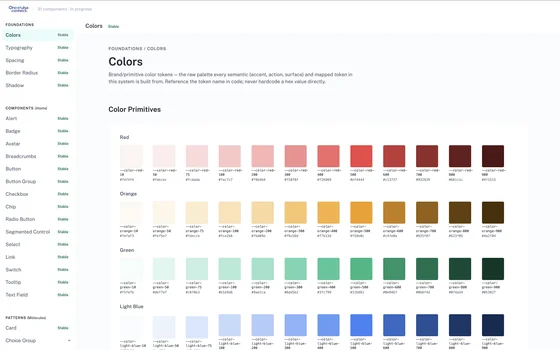
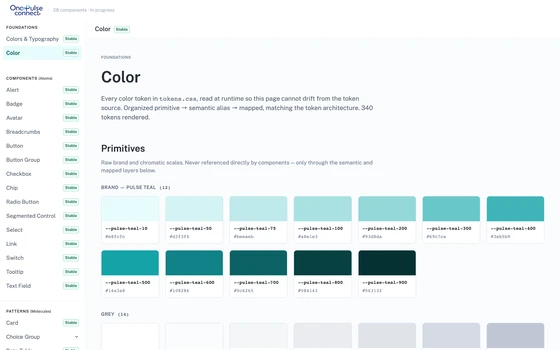
fix: recapture problem image from current library
ds_colors.webp still showed the pre-rebrand palette (red/orange/
green primitives), not the current Pulse Teal library. Recaptured
from the live Color page and updated the alt text to match.

diff --git a/onepulse-connect.html b/onepulse-connect.html
@@ -85,7 +85,7 @@
           </span>
           <div class="problem-diagram__group">
             <div class="problem-diagram__image-frame">
-              <img class="problem-diagram__image" src="images/ds_colors.webp" alt="OnePulse Connect design system Colors foundation page, showing the full primitive color palette rows." loading="lazy">
+              <img class="problem-diagram__image" src="images/ds_colors.webp" alt="OnePulse Connect design system Color foundation page, showing the Pulse Teal brand primitive scale alongside grey and alpha ramps." loading="lazy">
             </div>
             <p class="problem-diagram__caption problem-diagram__caption--primary">One shared token &amp; component system</p>
           </div>
